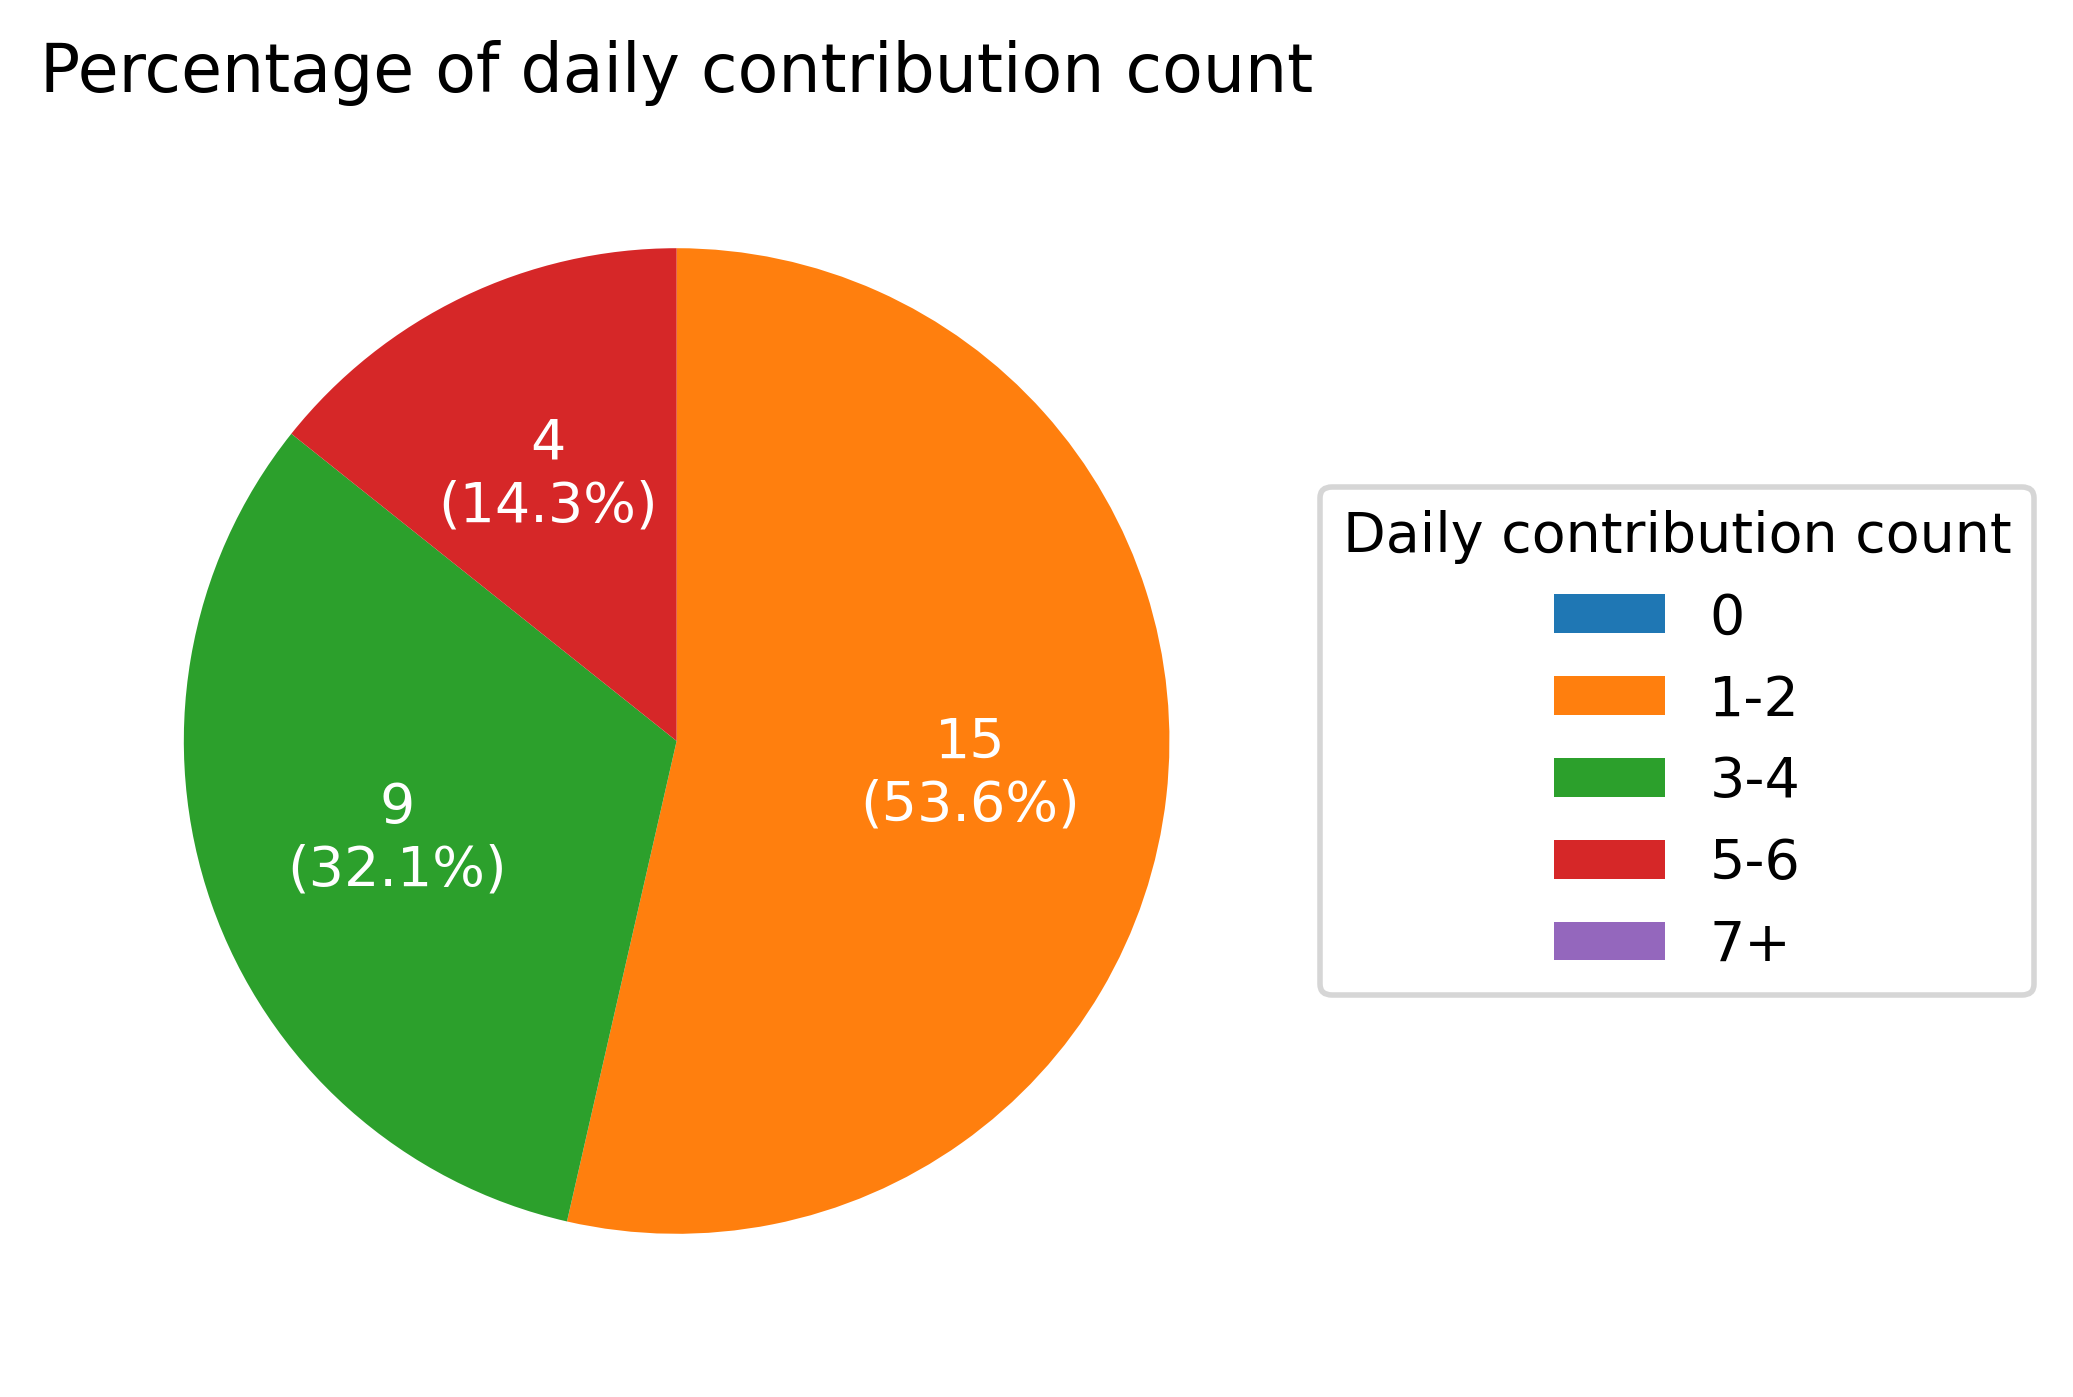
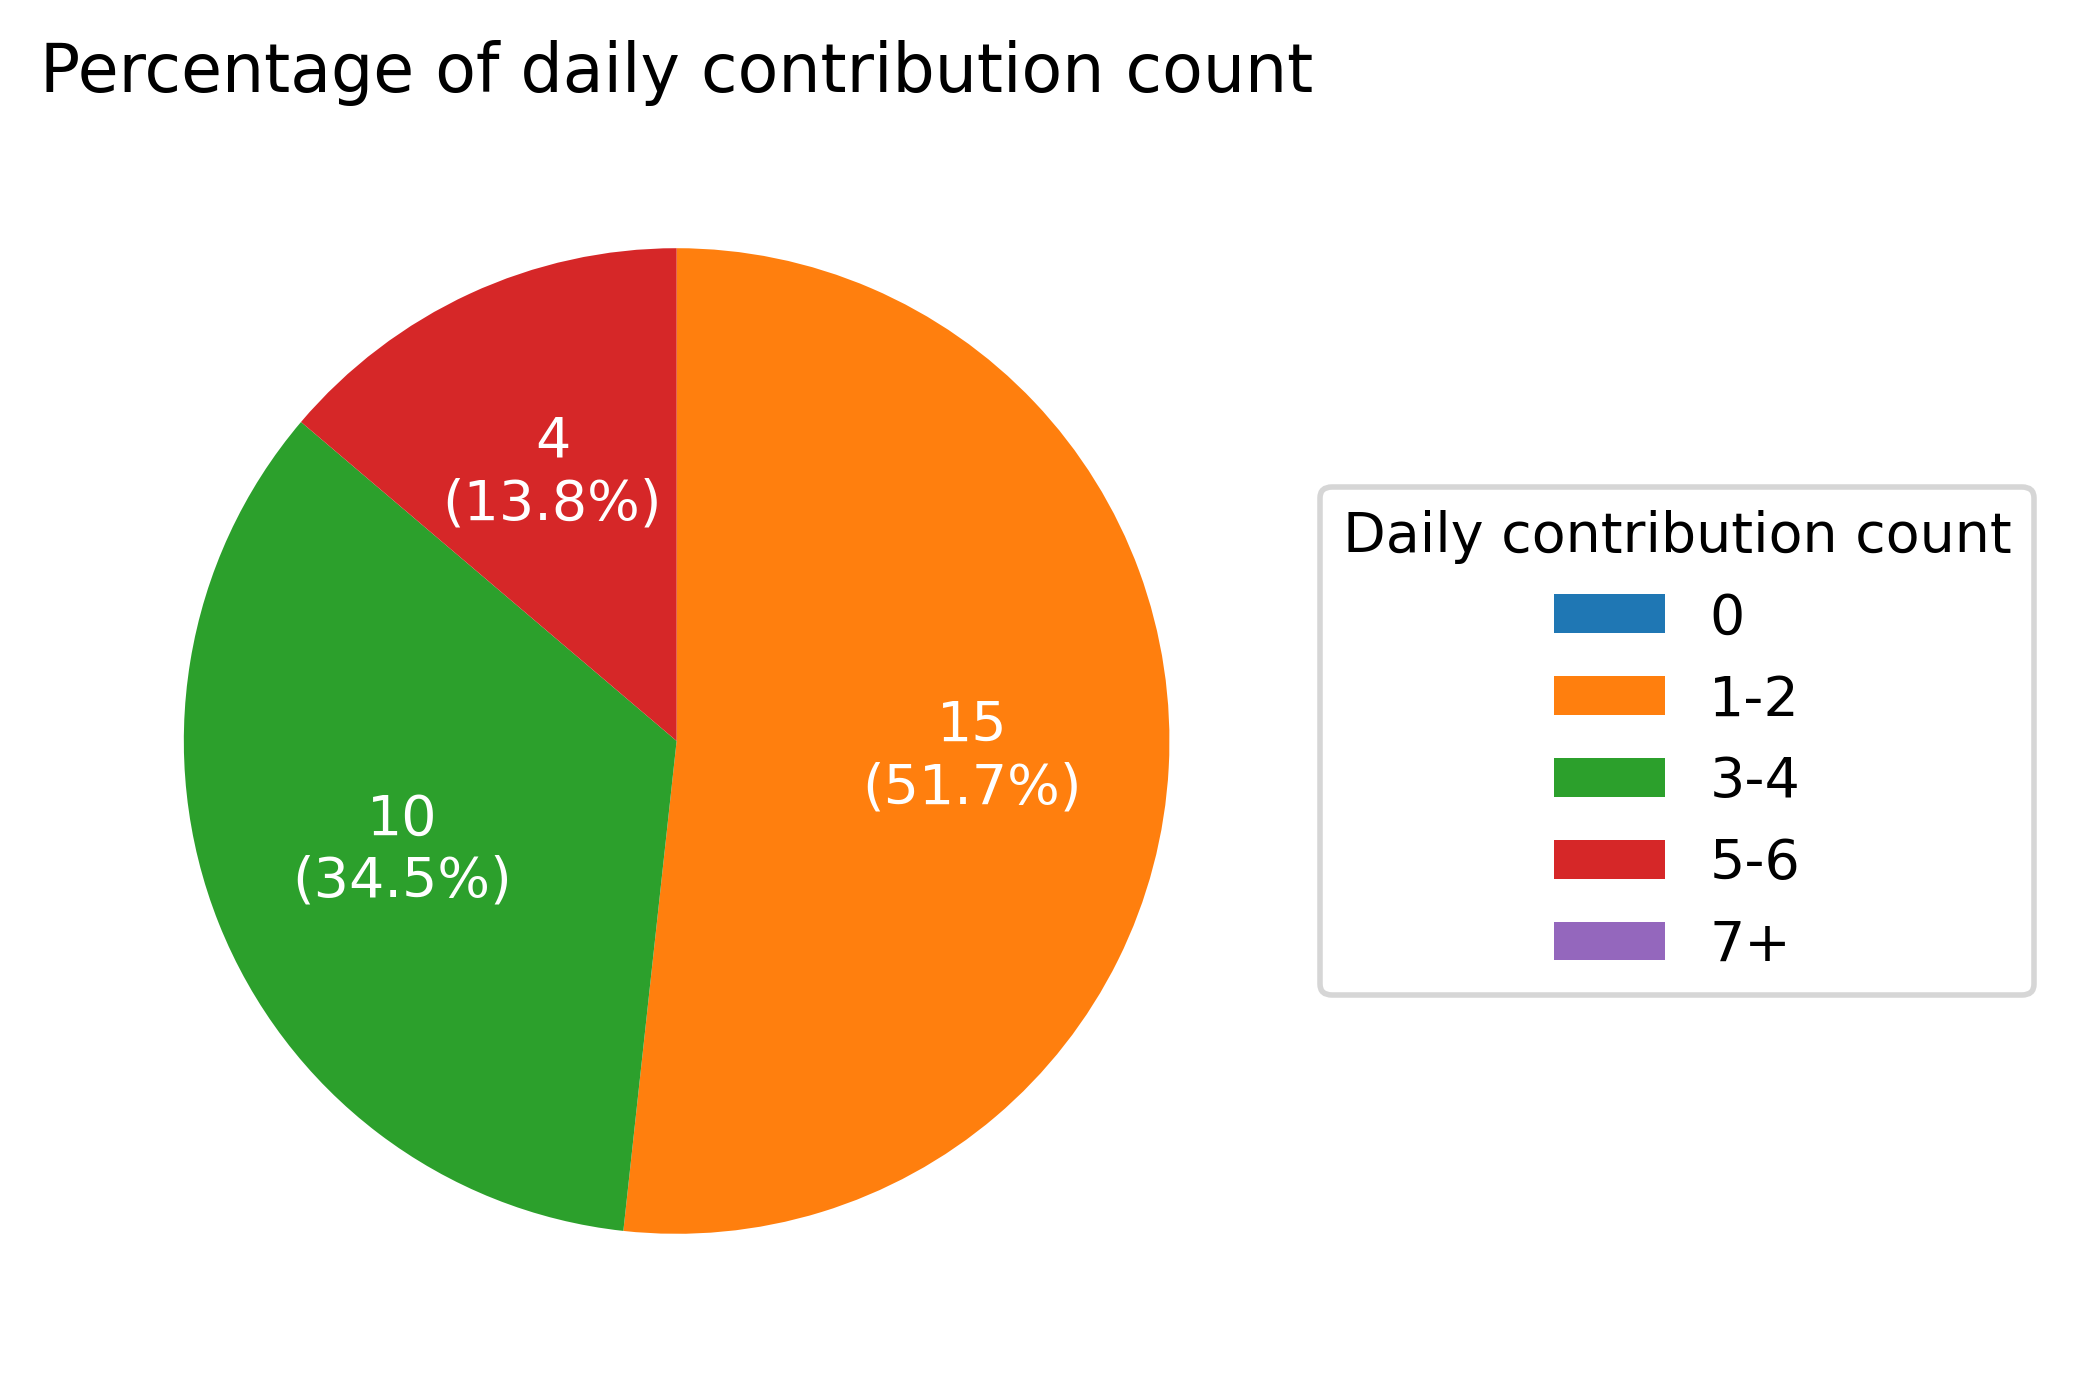
BOT: 2020-07-29 contribution check result

diff --git a/result/README.md b/result/README.md
@@ -6,15 +6,15 @@ I hope this report will be a companion for your contribution trip :airplane:
 
 
 ## Summary
-- **2020-07-28** is **28th day** since the start of trip :sweat_smile:
-- During the trip, total contribution count is **70** 
-and average contribution count is **2.50**
+- **2020-07-29** is **29th day** since the start of trip :sweat_smile:
+- During the trip, total contribution count is **74** 
+and average contribution count is **2.55**
 - Daily maximum contribution day is **2020-07-16**, which is **5**.
-- Longest continous contribution trip was **28** days 
-From **2020-07-01** to **2020-07-28** :walking:
-- Current continous contribution trip is **28** days 
+- Longest continous contribution trip was **29** days 
+From **2020-07-01** to **2020-07-29** :walking:
+- Current continous contribution trip is **29** days 
 From **2020-07-01** :running:
-- There was **5** new contribution at **2020-07-28**.
+- There was **4** new contribution at **2020-07-29**.
 Good job :+1:
 
 ## Graph
@@ -27,6 +27,6 @@ Good job :+1:
 | Week 28 of 2020 |  3  |  2  |  1  |  1  |  1  |  1  |  1  |
 | Week 29 of 2020 |  3  |  3  |  2  |  5  |  3  |  1  |  2  |
 | Week 30 of 2020 |  4  |  5  |  3  |  4  |  3  |  2  |  1  |
-| Week 31 of 2020 |  5  |  5  |     |     |     |     |     |
+| Week 31 of 2020 |  5  |  5  |  4  |     |     |     |     |
 
         
